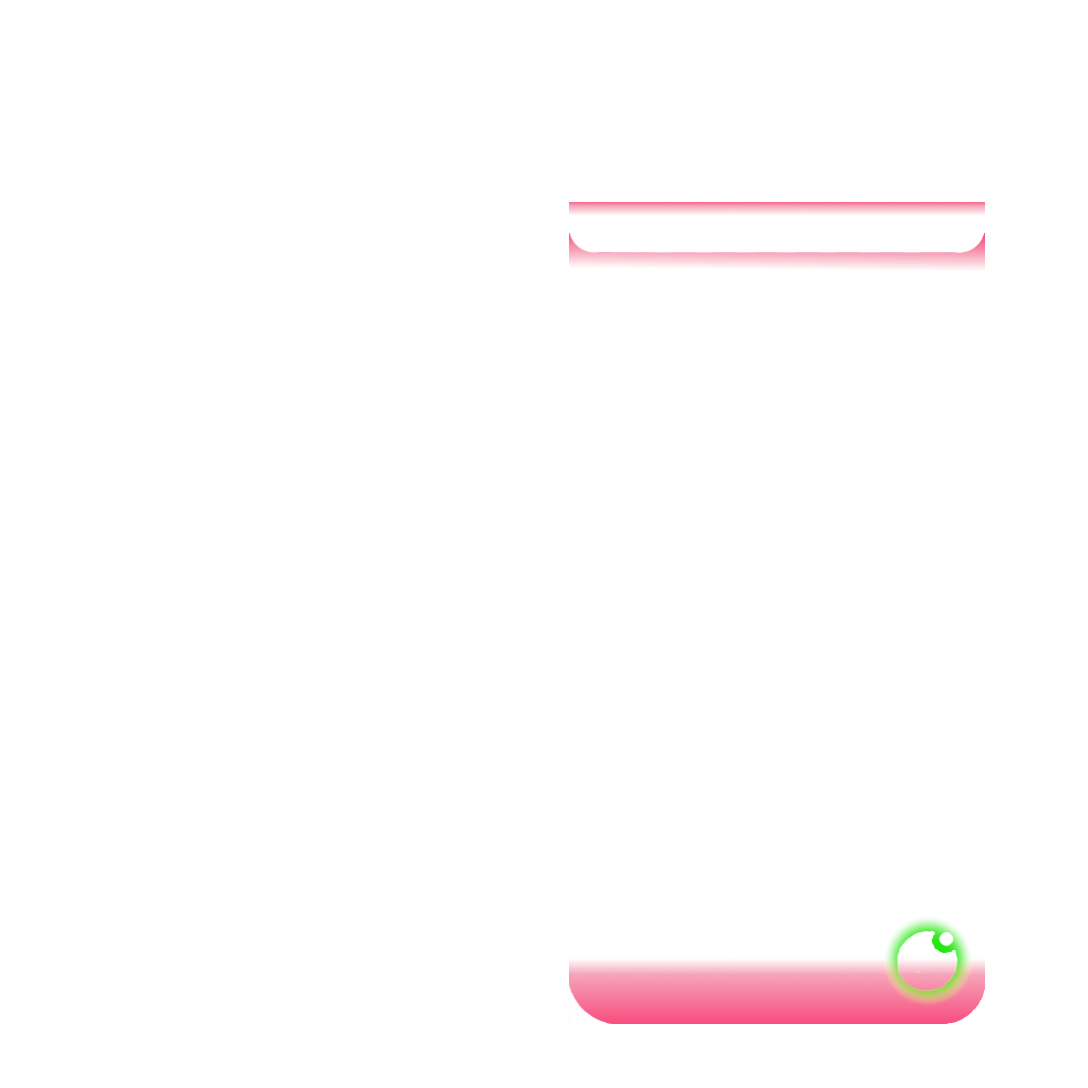
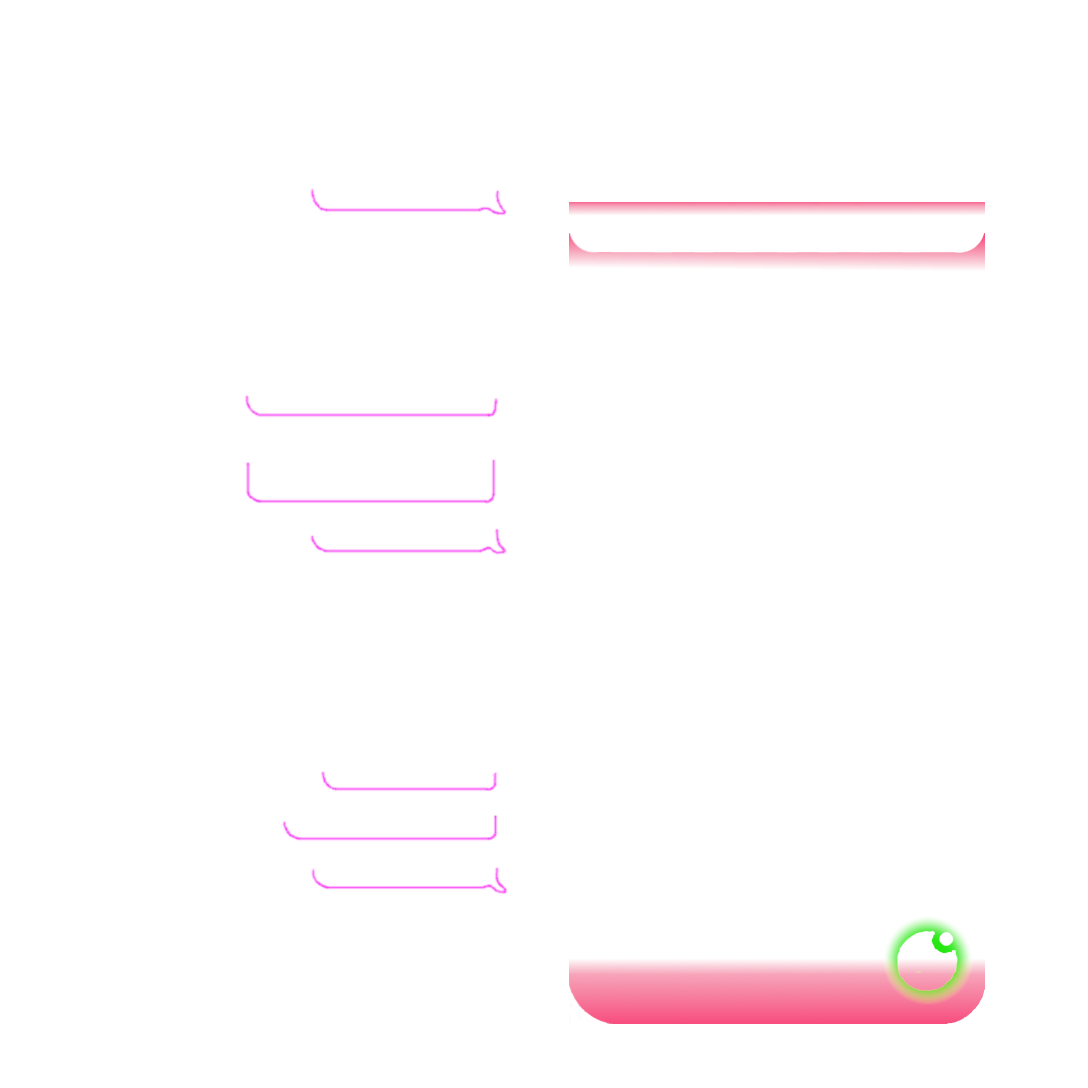
added ios preview for theme

diff --git a/core/image/theme_preview_ios.py b/core/image/theme_preview_ios.py
@@ -1,0 +1,106 @@
+import os
+from PIL import Image, ImageDraw, ImageFont
+
+from config.messages import PREVIEW_WATER_MARK
+from core.utils import hex_to_rgba_v2
+
+
+async def crop_wallpaper(wallpaper_path):
+    with Image.open(wallpaper_path) as img:
+        width, height = img.size
+        
+        if width > int(height*0.7):
+            top_x = width//2 - int(height*0.7)//2
+            top_y = 0
+            bot_x = width//2 + int(height*0.7)//2
+            bot_y = height
+            
+        else:
+            top_x = 0
+            top_y = height//2 - int(width//0.7)//2
+            bot_x = width
+            bot_y = height//2 + int(width//0.7)//2
+
+        cropped_img = img.crop((top_x, top_y, bot_x, bot_y))
+    new_width = int((750 / cropped_img.size[1]) * cropped_img.size[0])
+    wallpaper = cropped_img.resize((new_width, 750))
+    
+    return wallpaper
+
+
+async def set_color_v2(images, colors):
+    layers = []
+    for image, color in zip(images, colors):
+        with Image.open(image) as img:
+
+            img_data = list(img.getdata())
+            alpha_channel = list(img.split()[3].getdata())
+
+        if len(color) == 4:
+            new_img_data = [
+                (color[0], color[1], color[2],  color[3]) if alpha > 0 else pixel
+                for pixel, alpha in zip(img_data, alpha_channel)
+            ]
+        else:
+            new_img_data = [
+            (color[0], color[1], color[2],  alpha) if alpha > 0 else pixel
+            for pixel, alpha in zip(img_data, alpha_channel)
+            ]
+
+        new_img = Image.new("RGBA", img.size)
+        new_img.putdata([tuple(p) for p in new_img_data])
+        layers.append(new_img)
+
+    return layers
+
+
+async def create_ios_preview(chat_id, photo, preview_bg, bg, primary_txt,
+                              secondary_txt, chat_in):
+    background = Image.new('RGB', (1088, 1088), 'white')
+
+    layers = []
+    wallpaper = await crop_wallpaper(photo)
+    images = [
+        os.path.join('core', 'image', 'ios_theme_layers', 'bg.png'),
+        os.path.join('core', 'image', 'ios_theme_layers', 'bg_chat_color_2.png'),
+        os.path.join('core', 'image', 'ios_theme_layers', 'message_clouds_out.png'),
+        os.path.join('core', 'image', 'ios_theme_layers', 'message_clouds_in.png'),
+        os.path.join('core', 'image', 'ios_theme_layers', 'prime_txt.png'),
+        os.path.join('core', 'image', 'ios_theme_layers', 'second_txt.png'),
+        os.path.join('core', 'image', 'ios_theme_layers', 'shadow.png'),
+    ]
+    
+    colors = await hex_to_rgba_v2([
+        preview_bg,
+        bg,
+        bg,
+        chat_in,
+        primary_txt,
+        secondary_txt,
+        chat_in
+    ])
+
+    
+    assets = await set_color_v2(images, colors)
+    layers.extend(i for i in assets)
+    
+    background.paste(wallpaper, (45, 155))
+    
+    for layer in layers:
+        background.paste(layer, (0, 0), layer)
+    
+    with Image.open(os.path.join('core', 'image', 'ios_theme_layers', 'user_icons.png')) as img:
+        background.paste(img, (0, 0), img)
+    
+    draw = ImageDraw.Draw(background)
+    font = ImageFont.truetype("arial.ttf", 20)
+    text_color = colors[1]
+    position = (40, 1015)
+
+    draw.text(position, PREVIEW_WATER_MARK, font=font, fill=text_color)
+    
+    preview = os.path.join('ios', 'theme', str(chat_id), 'preview.jpg')
+    
+    background.save(preview)
+    
+    return preview

diff --git a/core/handlers/theme_handlers.py b/core/handlers/theme_handlers.py
@@ -240,9 +240,13 @@ async def handler_secondary_text_color(callback_query: CallbackQuery, bot: Bot):
                     reply_markup=inline_keybords.choose_alfa_background_color_keyboard()
                 )
             else:
-                theme = await create_theme(USER_DATA[key], key)
                 await callback_query.message.delete()
-                await USER_DATA[key]['sended_photo'].reply_document(document=FSInputFile(path=theme),
+                wait_message = await callback_query.message.answer(text=messages.MESSAGE_CREATING_THEME)
+                theme, preview = await create_theme(USER_DATA[key], key)
+                
+                await wait_message.delete()
+                await callback_query.message.answer_photo(photo=FSInputFile(path=preview))
+                await callback_query.message.answer_document(document=FSInputFile(path=theme),
                                                                         caption=messages.MESSAGE_THEME_DONE)
                 await dell_data(user_data=USER_DATA, chat_id=key)
                 USER_DATA[key] = {}
@@ -325,9 +329,13 @@ async def handler_auto_theme(callback_query: CallbackQuery, bot: Bot):
                 USER_DATA[key]['primary_text_color'] = USER_DATA[key]['colors'][4]
                 USER_DATA[key]['secondary_text_color'] = USER_DATA[key]['colors'][3]
 
-                theme = await create_theme(USER_DATA[key], key)
                 await callback_query.message.delete()
-                await USER_DATA[key]['sended_photo'].reply_document(document=FSInputFile(path=theme),
+                wait_message = await callback_query.message.answer(text=messages.MESSAGE_CREATING_THEME)
+                theme, preview = await create_theme(USER_DATA[key], key)
+                
+                await wait_message.delete()
+                await callback_query.message.answer_photo(photo=FSInputFile(path=preview))
+                await callback_query.message.answer_document(document=FSInputFile(path=theme),
                                                                         caption=messages.MESSAGE_THEME_DONE)
 
             elif USER_DATA[key]['device'] == 'desktop':

diff --git a/ios/iphone_theme.py b/ios/iphone_theme.py
@@ -5,6 +5,7 @@ from telethon.tl.functions.account import UploadWallPaperRequest
 from telethon.tl.types import InputFile, WallPaperSettings
 
 from config.api_keys import API_ID, API_HASH, NAME
+from core.image.theme_preview_ios import create_ios_preview
 
 api_id = API_ID
 api_hash = API_HASH
@@ -45,11 +46,15 @@ async def adjust_color_brightness(hex_color, factor=0.1):
 
 async def create_iphone_theme(chat_id, image_path, bg, dark, status_bar, primary_txt, not_primary_txt):
     async with TelegramClient('annon', api_id, api_hash) as client:
+        hex_bg = bg
+        hex_primary_txt = primary_txt
+        hex_not_primary_txt = not_primary_txt
+        
         result = await client.upload_file(image_path)
-        darker_bg = await adjust_color_brightness(bg)
-        darker_bg =darker_bg[1:]
-        secondary_txt = await adjust_color_brightness(primary_txt)
-        secondary_txt = secondary_txt[1:]
+        hex_darker_bg = await adjust_color_brightness(bg)
+        darker_bg =hex_darker_bg[1:]
+        hex_secondary_txt = await adjust_color_brightness(primary_txt)
+        secondary_txt = hex_secondary_txt[1:]
         bg = bg[1:]
         primary_txt = primary_txt[1:]
         not_primary_txt = not_primary_txt[1:]
@@ -475,5 +480,10 @@ async def create_iphone_theme(chat_id, image_path, bg, dark, status_bar, primary
             with open(theme, 'w') as f:
                 for row in ios_data:
                     f.write(str(row) + '\n')
+            
+            preview_bg = await adjust_color_brightness(hex_not_primary_txt, 0.5)
+            preview = await create_ios_preview(
+                chat_id, image_path, preview_bg, hex_bg, hex_primary_txt, hex_not_primary_txt, hex_darker_bg
+            )
 
-    return theme
+    return theme, preview
